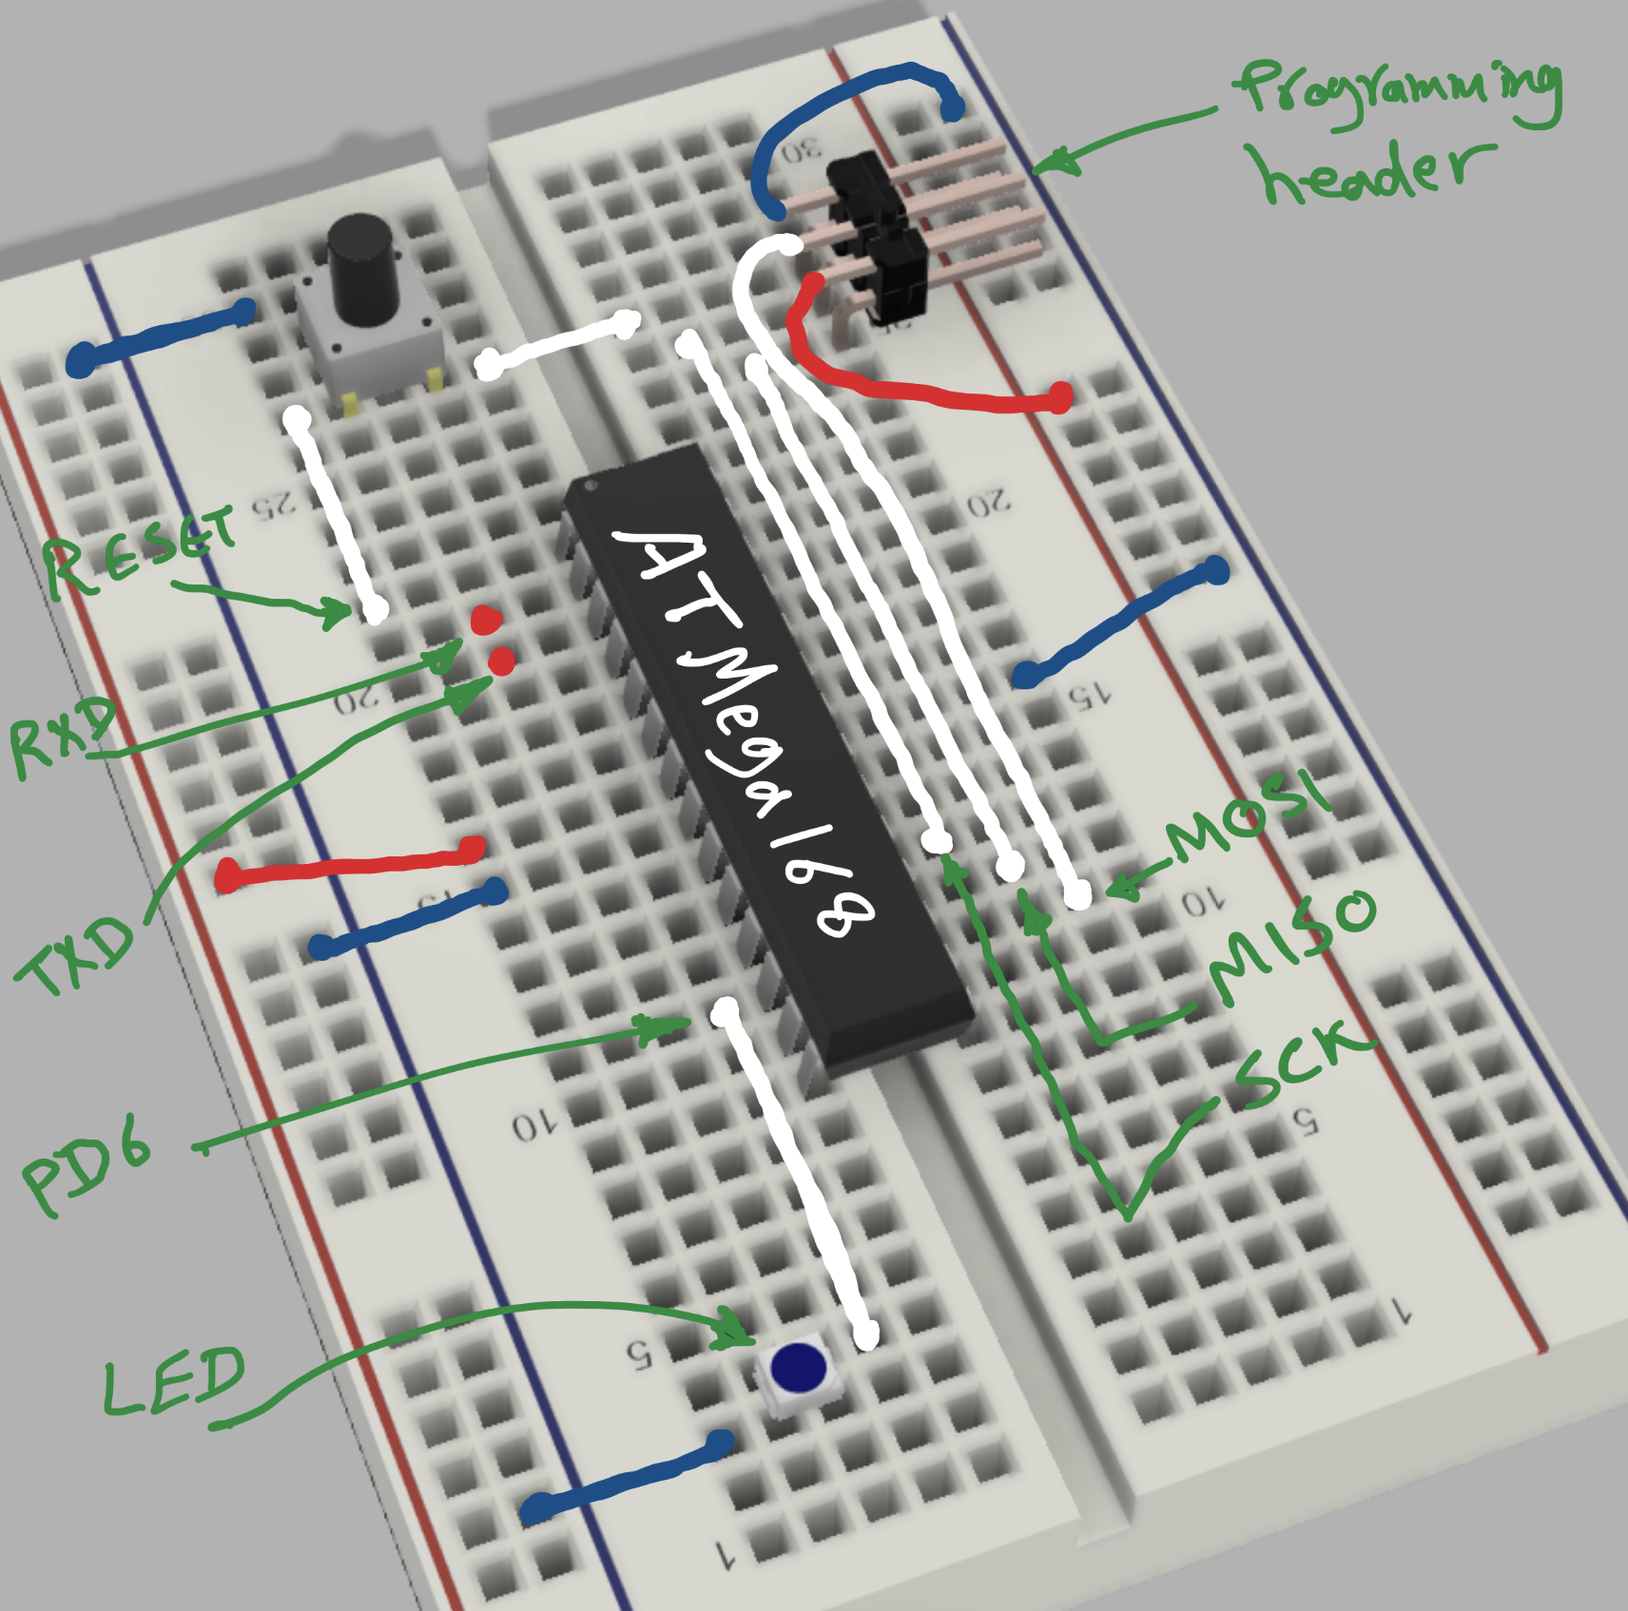
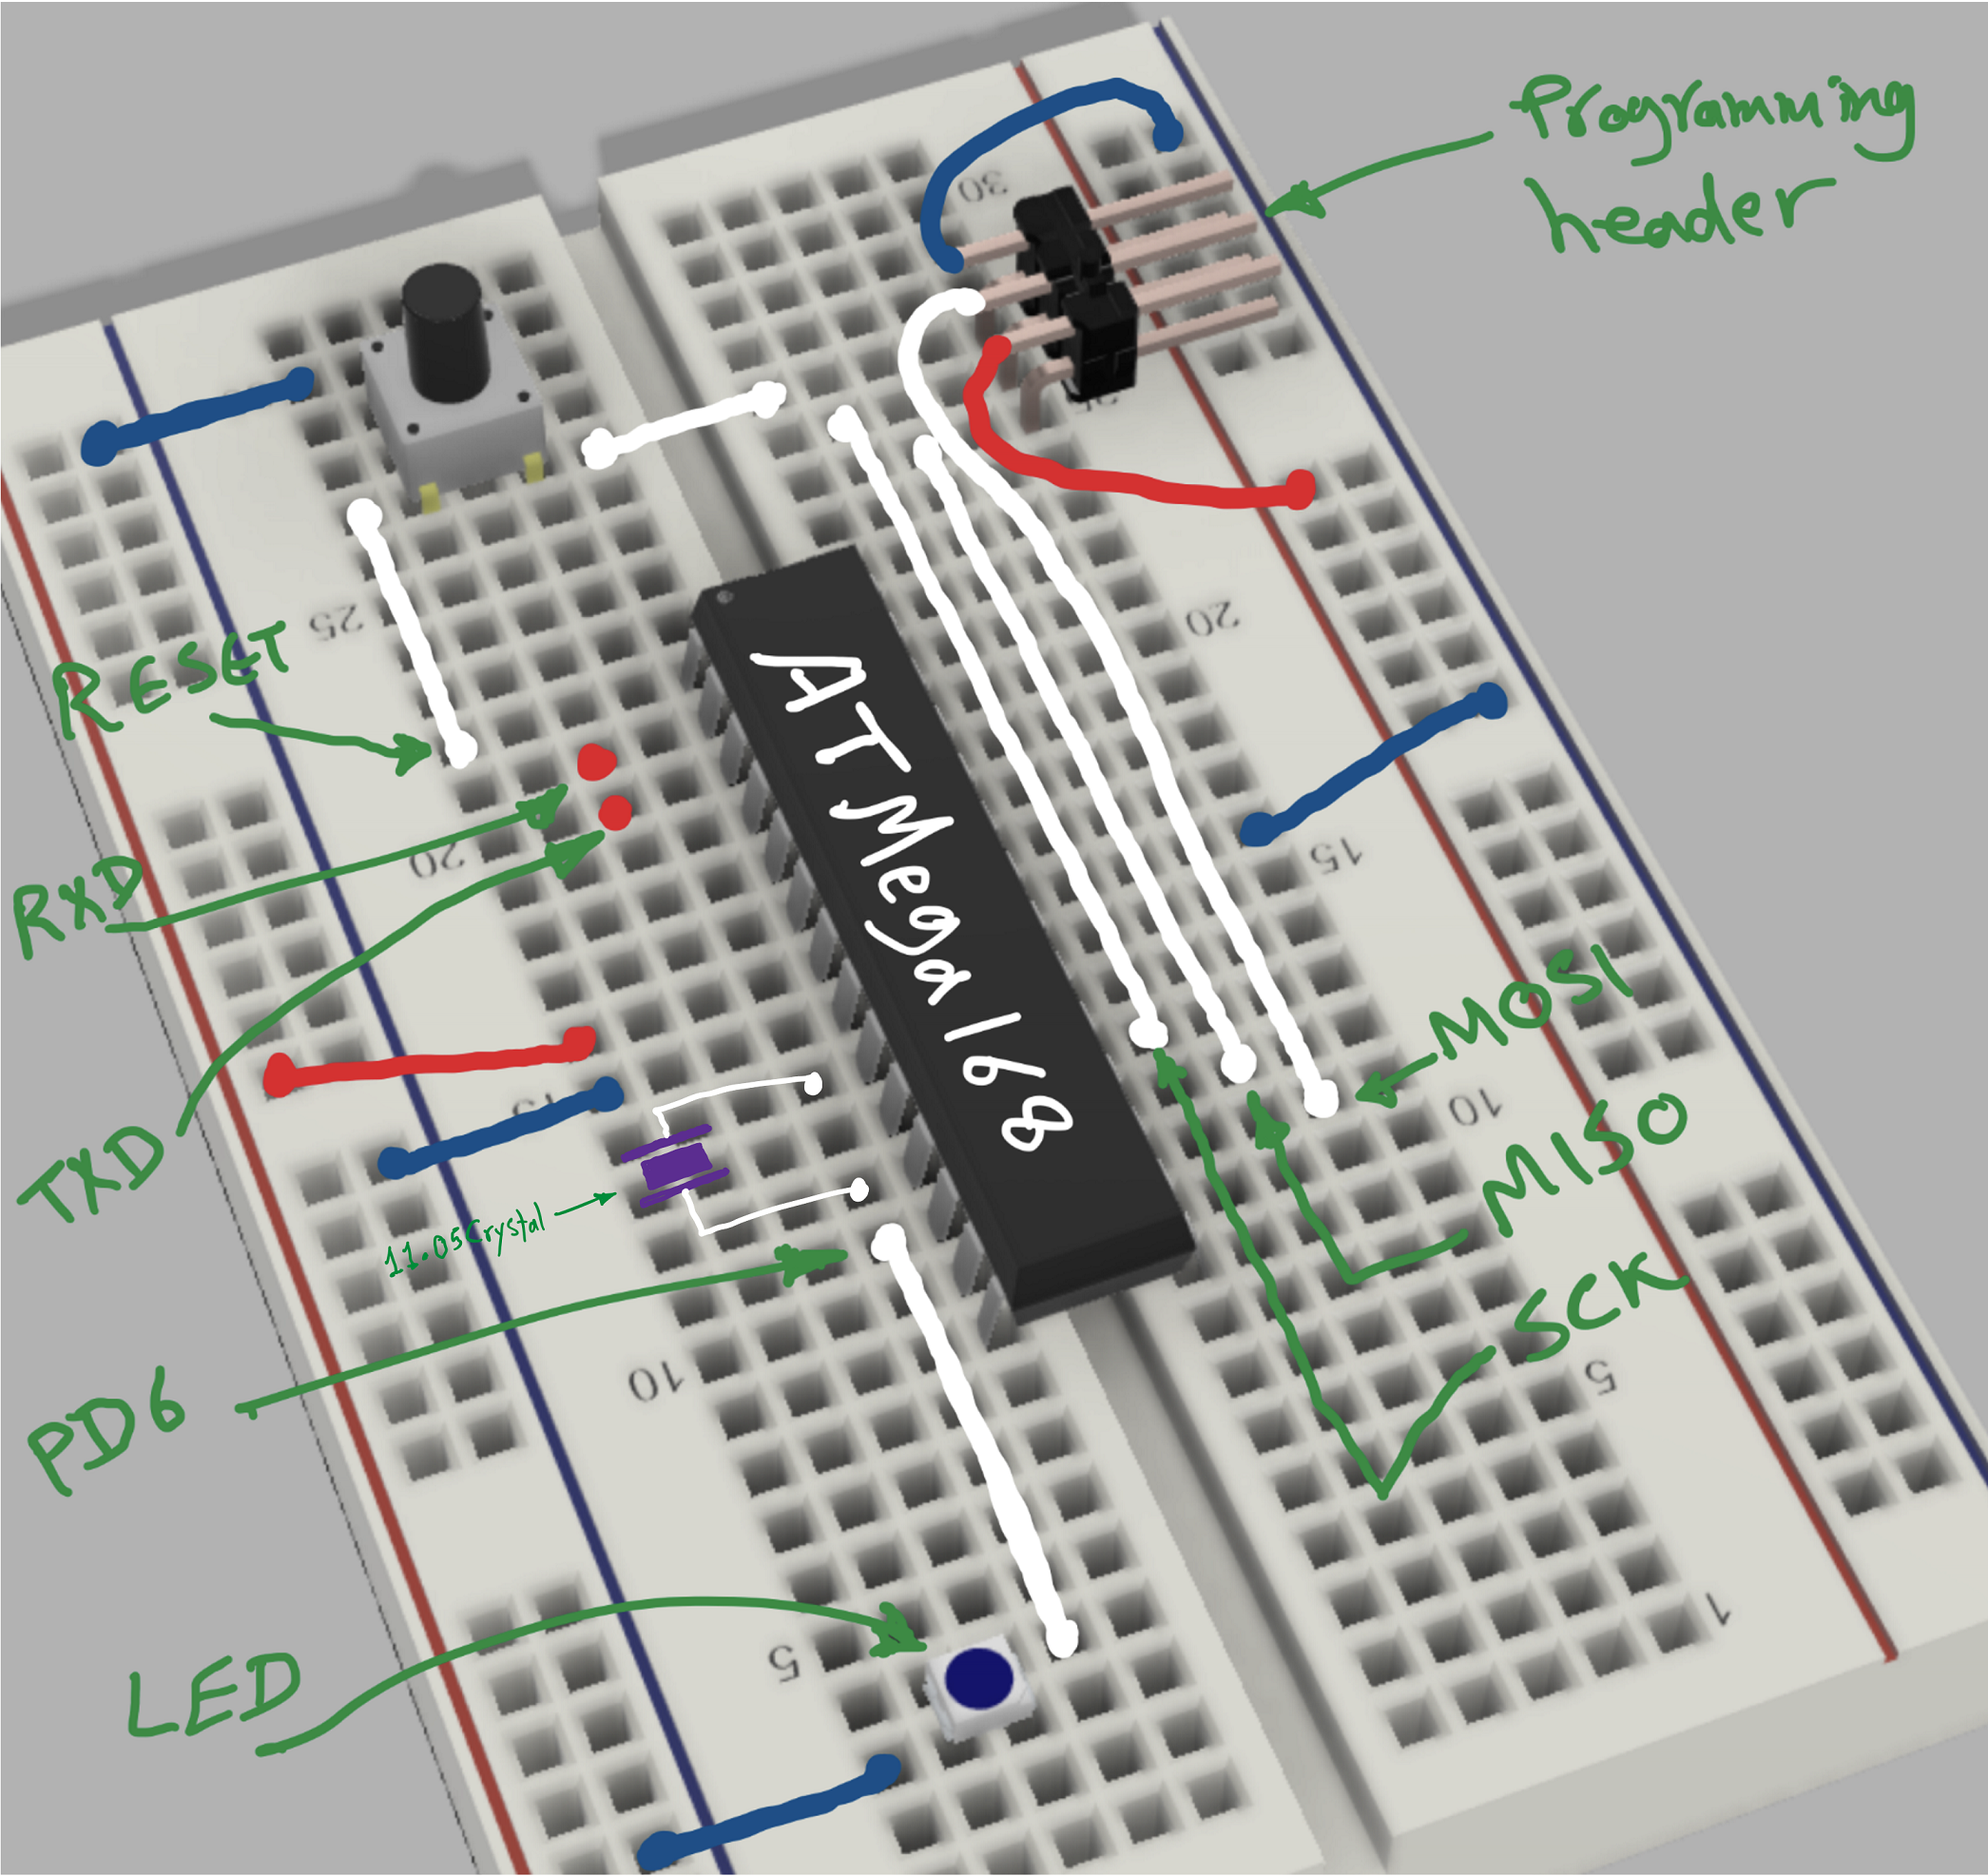
- Added crystal for error free serial - Updated docs - Added burst command (for testing, hence hidden in help)

diff --git a/TermethosDemo/Shell/commands.c b/TermethosDemo/Shell/commands.c
@@ -5,8 +5,9 @@
 
 SHELL_COMMAND(led, "led", ShellCommand_LED);
 SHELL_COMMAND(help, "help", ShellCommand_Help);
+SHELL_COMMAND(burst, "burst", ShellCommand_Burst);
 
-PShellCommand g_ShellCommands[] = { &led, &help };
+PShellCommand g_ShellCommands[] = { &led, &help, &burst };
 	
 void Command_InvalidCommand(void) {
 	USART_WriteString("!EInvalid command!\n\n");
@@ -73,7 +74,7 @@ void ShellCommand_LED(char* arg1, char* arg2) {
 }
 
 void ShellCommand_Help(char* arg1, char* arg2) {
-	USART_WriteString("\nhelp        show help\n");
+	USART_WriteString("help        show help\n");
 	USART_WriteString("led on      Turn LED on\n");
 	USART_WriteString("led off     Turn LED off\n");
 	USART_WriteString("led i +     Increase intensity\n");
@@ -82,4 +83,10 @@ void ShellCommand_Help(char* arg1, char* arg2) {
 	USART_WriteString("led f -     decrease blink rate\n");
 	USART_WriteString("led s       Mode = Steady\n");
 	USART_WriteString("led b       Mode = Blink\n\n");
+}
+
+void ShellCommand_Burst(char* arg1, char* arg2) {
+	for(int i=0 ; i < 1000 ; i++) {
+		USART_WriteString("012345678901234567890123456789\n");
+	}
 }

diff --git a/TermethosDemo/USART/usart.c b/TermethosDemo/USART/usart.c
@@ -4,13 +4,13 @@
 
 void USART_Initialize(void)
 {
-	// Baud rate
-	const WORD baudRate = 12;
+	// Baud rate: 115.2K with external crystal of 11.059MHz
+	const WORD baudRate = 5;
 	UBRR0H = (BYTE)(baudRate >> 8);
 	UBRR0L = (BYTE)(baudRate);
-
+	
 	// Enable Rx, Tx, and receive complete interrupt
-	UCSR0B = _BV(RXEN0) | _BV(TXEN0) | _BV(RXCIE0);
+	UCSR0B = /*_BV(UCSZ01) | */_BV(RXEN0) | _BV(TXEN0) | _BV(RXCIE0);
 	
 	// 8 data bits, no parity (default), 1 stop bit (default)
 	UCSR0C =  _BV(UCSZ01) | _BV(UCSZ00);

diff --git a/TermethosDemo/Shell/shell.c b/TermethosDemo/Shell/shell.c
@@ -101,9 +101,9 @@ BOOL Shell_FindToken(char** ppBuffer) {
 }
 
 void Shell_HandleCommand(char* command, char* arg1, char* arg2) {
-	// TODO: replace 2 with compile time sizeof
-	for(BYTE i = 0; i < 2; i++) {
-		if(strcmp(g_ShellCommands[i]->name, command) ==0) {
+	// TODO: replace 3 with compile time sizeof
+	for(BYTE i = 0; i < 3; i++) {
+		if(strcmp(g_ShellCommands[i]->name, command) == 0) {
 			g_ShellCommands[i]->commandFn(arg1, arg2);
 			Shell_Reset();
 			return;

diff --git a/TermethosDemo/Shell/commands.h b/TermethosDemo/Shell/commands.h
@@ -31,4 +31,6 @@ void ShellCommand_LED(char* arg1, char* arg2);
 
 void ShellCommand_Help(char* arg1, char* arg2);
 
+void ShellCommand_Burst(char* arg1, char* arg2);
+
 #endif /* COMMANDS_H_ */

diff --git a/README.md b/README.md
@@ -15,10 +15,13 @@ An ATMega168 code to demo Termethos (https://www.termethos.com) smart terminal
  - SH-U09C2 USB to TTL Adapter Built-in FTDI FT232RL IC for Debugging and Programming (https://www.amazon.com/gp/product/B07TXVRQ7V)
  - Optional: power source and regulator (I use the ISP as power source in this circuit. It is connected to external powered USB hub!)
 
+Simple breadboard circuit:
+
+![](breadboard.jpg)
+
 ## Software
 - Ateml Studio 7.0
 
-Simple breadboard circuit:
+## Processor Fuses config
 
-
-![](breadboard.jpg)
+![](fuses.png)
